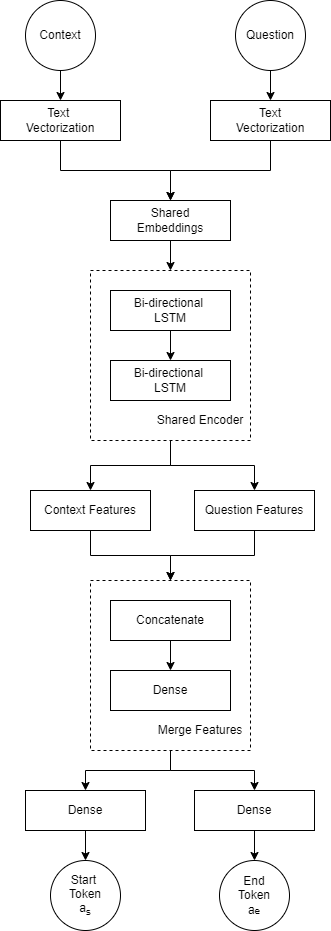
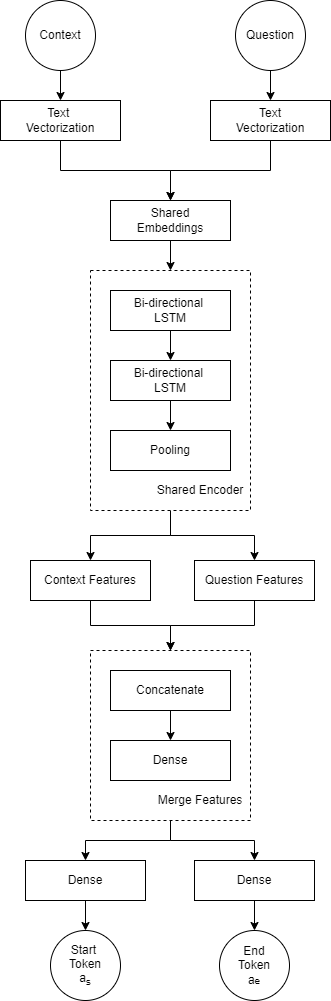
small changes to the model

diff --git a/dataset_lib.py b/dataset_lib.py
@@ -81,26 +81,25 @@ class SQUAD:
           question_words = nltk.word_tokenize(question)  # Split question in word tokens
           if len(question_words) > self.max_question_length:
             continue
-          # Take only the first answer
-          answer = qas_entry['answers'][0]
-          # Start of answer as the index of a character token in the context
-          answer_start = answer['answer_start']
-          # Find answer end character token
-          answer_end = answer_start + len(answer['text']) - 1
-          # From the character level indices, we find the context word token indices that correspond to the answer
-          try:
-            first_idx, last_idx = self.find_answer_start_end_in_context(context, context_words, answer_start, answer_end)
-          except ValueError:
-            continue
           inputs = (
             self.text_vectorization_layer(process_string(context)),
             self.text_vectorization_layer(process_string(question))
           )
-          outputs = (
-            np.asarray([first_idx], dtype='int64'),
-            np.asarray([last_idx], dtype='int64')
-          )
-          tuples_dataset.append((inputs, outputs))
+          for answer in qas_entry['answers']:
+            # Start of answer as the index of a character token in the context
+            answer_start = answer['answer_start']
+            # Find answer end character token
+            answer_end = answer_start + len(answer['text']) - 1
+            # From the character level indices, we find the context word token indices that correspond to the answer
+            try:
+              first_idx, last_idx = self.find_answer_start_end_in_context(context, context_words, answer_start, answer_end)
+            except ValueError:
+              continue
+            outputs = (
+              np.asarray([first_idx], dtype='int64'),
+              np.asarray([last_idx], dtype='int64')
+            )
+            tuples_dataset.append((inputs, outputs))
     return tuples_dataset
 
   def __call__(self):

diff --git a/model_lib.py b/model_lib.py
@@ -27,9 +27,10 @@ class Model:
       name='encoder_rnn_0'
     )
     self.rnn_1 = tf.keras.layers.Bidirectional(
-      tf.keras.layers.LSTM(units=self.encoder_dim),
+      tf.keras.layers.LSTM(units=self.encoder_dim, return_sequences=True),
       name='encoder_rnn_1'
     )
+    self.pool = tf.keras.layers.GlobalAveragePooling1D(name='pool')
 
   def extract_features(self, inputs):
     x = self.embedding(inputs)
@@ -37,6 +38,8 @@ class Model:
     x = self.rnn_0(x)
     # shape: (batch_size, sequence_length, 2 * encoder_dim)
     x = self.rnn_1(x)
+    # shape: (batch_size, sequence_length, 2 * encoder_dim)
+    x = self.pool(x)
     # shape: (batch_size, 2 * encoder_dim)
     return x
 

diff --git a/README.md b/README.md
@@ -40,7 +40,8 @@ where the answer is in the context paragraph P.
 
 Using shared weights between context and question embedding layers, as well as between
 encoder layers, we allow the model to incorporate information from both the context and
-the question through the entire processing stack to make its final decision.
+the question through the entire processing stack to make its final decision. With the default
+training setting the model has ~2M parameters.
 
 ### Results
 
